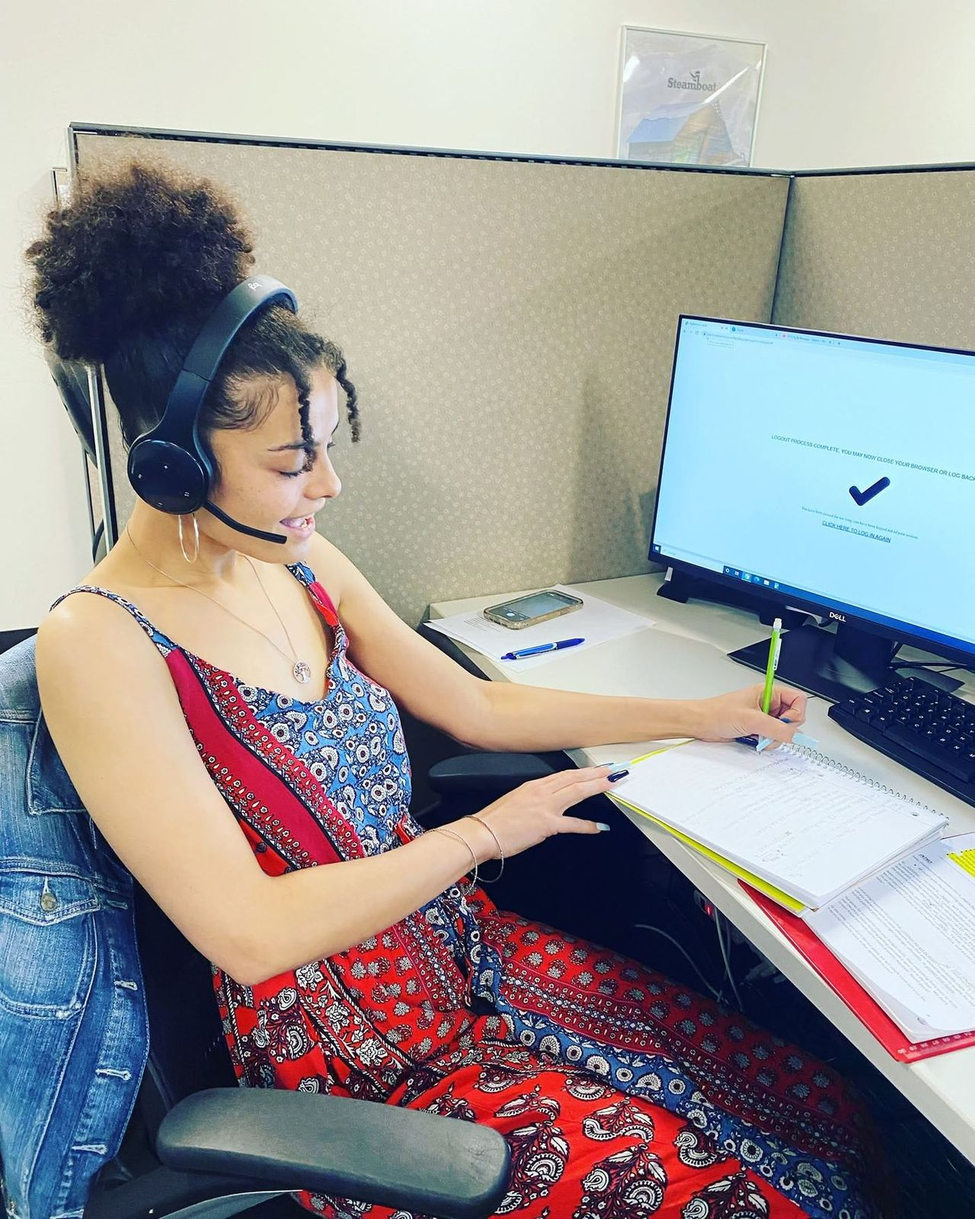
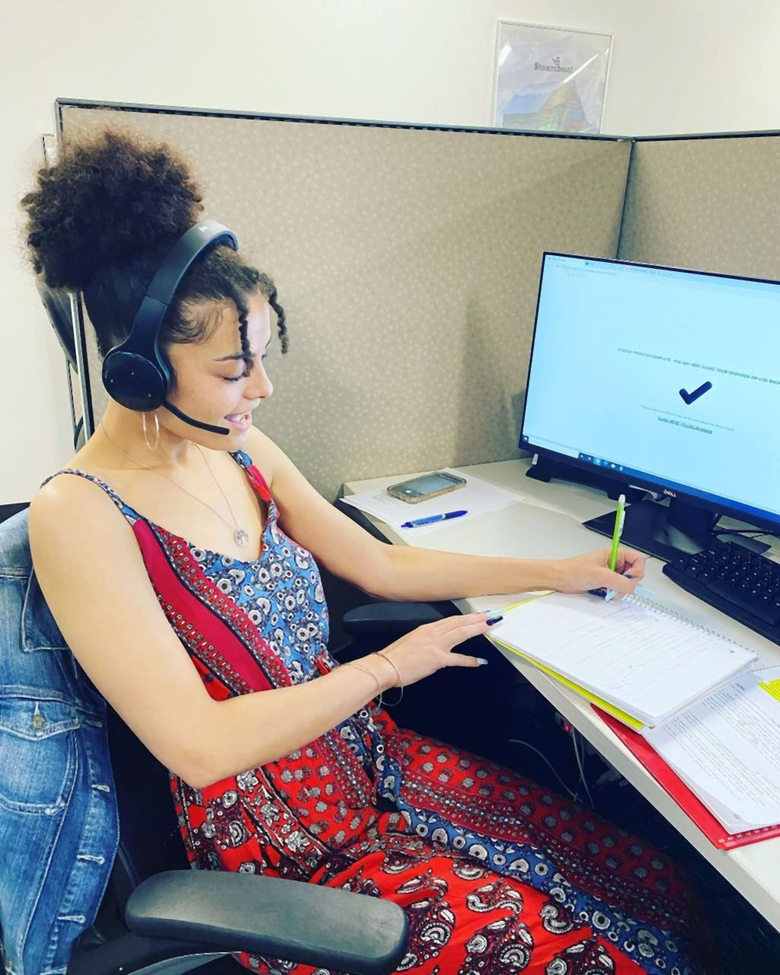
Medicare page: heading order and a lighter hero photo
Lighthouse on the newly released page: accessibility 98 from an h2 -> h4
skip in the "How It Works" steps (Step 1/2/3 are now h3 with the same
styling; no copy changes), and LCP 2.55 s with the H1 render-blocked
behind a 241 KB hero WebP fetched at high priority. agent-headset is
resized to 1024x1280 (the slot renders at most 720 px wide) and denoised
before encoding: 110 KB WebP, 192 KB JPEG fallback; width/height restamped
by the build.

diff --git a/burial-insurance-with-pre-existing-conditions/index.html b/burial-insurance-with-pre-existing-conditions/index.html
@@ -31,11 +31,11 @@
 <link rel="preload" as="font" type="font/woff2" href="/assets/fonts/poppins-latin-600.woff2" crossorigin>
 <link rel="preload" as="font" type="font/woff2" href="/assets/fonts/poppins-latin-700.woff2" crossorigin>
 
-<link rel="stylesheet" href="/assets/site.css?v=ab4abb86">
+<link rel="stylesheet" href="/assets/site.css?v=323cf22e">
 
 <script type="application/ld+json">{"@context":"https://schema.org","@type":"InsuranceAgency","@id":"https://ssifinalexpense.com/#agency","name":"Senior Solutions Insurance","legalName":"Christopher L Martin Insurance Group","url":"https://ssifinalexpense.com/","telephone":"+1-888-957-3337","image":"https://ssifinalexpense.com/assets/img/team-boardroom.jpg","logo":"https://ssifinalexpense.com/assets/ssi-logo.png","foundingDate":"2008","founder":{"@type":"Person","name":"Chris Martin","jobTitle":"Founder & CEO"},"description":"Licensed insurance agency in Greenwood Village, Colorado. Final expense and burial insurance, Medicare Advantage and ACA health plans, quoted by licensed agents.","hasMap":"https://www.google.com/maps/dir/?api=1&destination=5775+DTC+Blvd+Suite+250-S+Greenwood+Village+CO+80111","address":{"@type":"PostalAddress","streetAddress":"5775 DTC Blvd, Suite 250-S","addressLocality":"Greenwood Village","addressRegion":"CO","postalCode":"80111","addressCountry":"US"},"openingHoursSpecification":[{"@type":"OpeningHoursSpecification","dayOfWeek":["Monday","Tuesday","Wednesday","Thursday","Friday"],"opens":"09:00","closes":"19:00"},{"@type":"OpeningHoursSpecification","dayOfWeek":"Saturday","opens":"09:00","closes":"17:00"}],"sameAs":["https://www.facebook.com/SeniorSolutionsInsuranceMedicare","https://www.bbb.org/us/co/denver/profile/funeral-related-services/senior-solutions-insurance-1296-90265012"]}</script>
 <script type="application/ld+json">{"@context":"https://schema.org","@type":"FAQPage","mainEntity":[{"@type":"Question","name":"Can I be turned down for burial insurance?","acceptedAnswer":{"@type":"Answer","text":"For a level benefit plan, yes. For coverage of some kind, effectively no — guaranteed acceptance plans ask no health questions and cannot decline anyone within their age range."}},{"@type":"Question","name":"What conditions disqualify you from burial insurance?","acceptedAnswer":{"@type":"Answer","text":"No condition rules out coverage altogether. Conditions that commonly move an applicant to guaranteed acceptance include active cancer treatment, dialysis, dementia, continuous oxygen use, nursing home or hospice residence, and needing help with daily activities."}},{"@type":"Question","name":"Can I get burial insurance with no waiting period?","acceptedAnswer":{"@type":"Answer","text":"Yes, if you qualify for a level benefit plan. That is the plan most applicants get, including many with common chronic conditions. The waiting period applies to graded, modified and guaranteed acceptance plans."}},{"@type":"Question","name":"Can I get life insurance if I am on dialysis?","acceptedAnswer":{"@type":"Answer","text":"Through a guaranteed acceptance plan, yes. Dialysis is a knockout at nearly every carrier for level coverage."}},{"@type":"Question","name":"I have diabetes. Will I be approved?","acceptedAnswer":{"@type":"Answer","text":"Usually, and often at level. Type 2 managed with pills is routine. Insulin use is where carriers diverge, with many drawing the line at whether insulin started before or after age 40."}},{"@type":"Question","name":"I was declined last year. Is it worth applying again?","acceptedAnswer":{"@type":"Answer","text":"Often yes. Carriers differ on which conditions they accept, and underwriting rules change. A decline for a specific condition at one company says nothing about another company's rules."}},{"@type":"Question","name":"Do I need a medical exam?","acceptedAnswer":{"@type":"Answer","text":"No. Final expense underwriting uses a short list of health questions, a prescription history check and a database review. There is no exam, no blood work and no nurse visit."}},{"@type":"Question","name":"Does guaranteed acceptance pay nothing if I die in the first two years?","acceptedAnswer":{"@type":"Answer","text":"It pays something, just not the face amount. Most plans return the premiums paid, commonly with interest added. Accidental death is normally covered in full from day one."}}]}</script>
-<script type="application/ld+json">{"@context":"https://schema.org","@type":"Article","@id":"https://ssifinalexpense.com/burial-insurance-with-pre-existing-conditions/#article","mainEntityOfPage":"https://ssifinalexpense.com/burial-insurance-with-pre-existing-conditions/","headline":"Burial Insurance With Pre-Existing Conditions: What Actually Disqualifies You","description":"Which health conditions affect burial insurance approval, condition by condition, and what to do if you have been declined before.","image":"https://ssifinalexpense.com/assets/img/og-pre-existing-conditions.jpg","datePublished":"2026-09-12T03:56:06-04:00","dateModified":"2026-09-12T12:20:14.289Z","inLanguage":"en-US","author":{"@type":"Person","name":"Chris Martin","jobTitle":"Founder & CEO","url":"https://ssifinalexpense.com/about-us/","worksFor":{"@id":"https://ssifinalexpense.com/#agency"}},"publisher":{"@id":"https://ssifinalexpense.com/#agency"}}</script>
+<script type="application/ld+json">{"@context":"https://schema.org","@type":"Article","@id":"https://ssifinalexpense.com/burial-insurance-with-pre-existing-conditions/#article","mainEntityOfPage":"https://ssifinalexpense.com/burial-insurance-with-pre-existing-conditions/","headline":"Burial Insurance With Pre-Existing Conditions: What Actually Disqualifies You","description":"Which health conditions affect burial insurance approval, condition by condition, and what to do if you have been declined before.","image":"https://ssifinalexpense.com/assets/img/og-pre-existing-conditions.jpg","datePublished":"2026-09-12T03:56:06-04:00","dateModified":"2026-09-12T08:20:41-04:00","inLanguage":"en-US","author":{"@type":"Person","name":"Chris Martin","jobTitle":"Founder & CEO","url":"https://ssifinalexpense.com/about-us/","worksFor":{"@id":"https://ssifinalexpense.com/#agency"}},"publisher":{"@id":"https://ssifinalexpense.com/#agency"}}</script>
 <script type="application/ld+json">{"@context":"https://schema.org","@type":"BreadcrumbList","itemListElement":[{"@type":"ListItem","position":1,"name":"Home","item":"https://ssifinalexpense.com/"},{"@type":"ListItem","position":2,"name":"Burial Insurance With Pre-Existing Conditions","item":"https://ssifinalexpense.com/burial-insurance-with-pre-existing-conditions/"}]}</script>
 </head>
 <body class="page-guide" data-path="/burial-insurance-with-pre-existing-conditions/">

diff --git a/medicare/index.html b/medicare/index.html
@@ -31,7 +31,7 @@
 <link rel="preload" as="font" type="font/woff2" href="/assets/fonts/poppins-latin-600.woff2" crossorigin>
 <link rel="preload" as="font" type="font/woff2" href="/assets/fonts/poppins-latin-700.woff2" crossorigin>
 
-<link rel="stylesheet" href="/assets/site.css?v=ab4abb86">
+<link rel="stylesheet" href="/assets/site.css?v=323cf22e">
 
 <script type="application/ld+json">{"@context":"https://schema.org","@type":"InsuranceAgency","@id":"https://ssifinalexpense.com/#agency","name":"Senior Solutions Insurance","legalName":"Christopher L Martin Insurance Group","url":"https://ssifinalexpense.com/","telephone":"+1-888-957-3337","image":"https://ssifinalexpense.com/assets/img/team-boardroom.jpg","logo":"https://ssifinalexpense.com/assets/ssi-logo.png","foundingDate":"2008","founder":{"@type":"Person","name":"Chris Martin","jobTitle":"Founder & CEO"},"description":"Licensed insurance agency in Greenwood Village, Colorado. Final expense and burial insurance, Medicare Advantage and ACA health plans, quoted by licensed agents.","hasMap":"https://www.google.com/maps/dir/?api=1&destination=5775+DTC+Blvd+Suite+250-S+Greenwood+Village+CO+80111","address":{"@type":"PostalAddress","streetAddress":"5775 DTC Blvd, Suite 250-S","addressLocality":"Greenwood Village","addressRegion":"CO","postalCode":"80111","addressCountry":"US"},"openingHoursSpecification":[{"@type":"OpeningHoursSpecification","dayOfWeek":["Monday","Tuesday","Wednesday","Thursday","Friday"],"opens":"09:00","closes":"19:00"},{"@type":"OpeningHoursSpecification","dayOfWeek":"Saturday","opens":"09:00","closes":"17:00"}],"sameAs":["https://www.facebook.com/SeniorSolutionsInsuranceMedicare","https://www.bbb.org/us/co/denver/profile/funeral-related-services/senior-solutions-insurance-1296-90265012"]}</script>
 <script type="application/ld+json">{"@context":"https://schema.org","@type":"FAQPage","mainEntity":[{"@type":"Question","name":"Can I keep my doctor?","acceptedAnswer":{"@type":"Answer","text":"It depends on the plan you choose, but many Medicare Advantage plans have extensive networks of providers, giving you plenty of options to continue seeing your preferred doctors."}},{"@type":"Question","name":"How do I know if I am eligible for Medicare Advantage?","acceptedAnswer":{"@type":"Answer","text":"Eligibility typically requires enrollment in both Medicare Part A and Part B. Our agents can help you determine your eligibility during a consultation."}},{"@type":"Question","name":"What happens if I want to switch plans later?","acceptedAnswer":{"@type":"Answer","text":"You can usually switch Medicare Advantage plans during the Annual Enrollment Period (AEP) or other special enrollment periods, depending on your circumstances."}},{"@type":"Question","name":"What is Medicare Advantage?","acceptedAnswer":{"@type":"Answer","text":"Medicare Advantage, also called Medicare Part C, is a way to receive your Medicare Part A and Part B coverage through a private insurance company approved by Medicare, instead of directly through Original Medicare. Plans must cover everything Original Medicare covers, and each plan sets its own costs, provider network and rules."}}]}</script>
@@ -107,7 +107,7 @@
       </div>
     </div>
     <figure class="hero__photo">
-      <picture><source type="image/webp" srcset="/assets/img/agent-headset.webp"><img src="/assets/img/agent-headset.jpg" alt="A Senior Solutions agent on a headset taking notes for a client" width="1280" height="1600" loading="eager" fetchpriority="high" class="hero__img--focus-28"></picture>
+      <picture><source type="image/webp" srcset="/assets/img/agent-headset.webp"><img src="/assets/img/agent-headset.jpg" alt="A Senior Solutions agent on a headset taking notes for a client" width="1024" height="1280" loading="eager" fetchpriority="high" class="hero__img--focus-28"></picture>
       <figcaption>A licensed agent, Greenwood Village office</figcaption>
     </figure>
   </div>
@@ -146,9 +146,9 @@
     <div class="split">
       <div>
         <ol class="steps steps--dark">
-          <li><svg aria-hidden="true"><use href="#i-phone"/></svg><div><h4>Step 1</h4><p>Call us at 1-888-957-3337 or schedule a consultation online.</p></div></li>
-          <li><svg aria-hidden="true"><use href="#i-list"/></svg><div><h4>Step 2</h4><p>Review the available plans with the guidance of our licensed agents.</p></div></li>
-          <li><svg aria-hidden="true"><use href="#i-pen"/></svg><div><h4>Step 3</h4><p>Enroll in the plan that suits your needs.</p></div></li>
+          <li><svg aria-hidden="true"><use href="#i-phone"/></svg><div><h3 class="steps__step">Step 1</h3><p>Call us at 1-888-957-3337 or schedule a consultation online.</p></div></li>
+          <li><svg aria-hidden="true"><use href="#i-list"/></svg><div><h3 class="steps__step">Step 2</h3><p>Review the available plans with the guidance of our licensed agents.</p></div></li>
+          <li><svg aria-hidden="true"><use href="#i-pen"/></svg><div><h3 class="steps__step">Step 3</h3><p>Enroll in the plan that suits your needs.</p></div></li>
         </ol>
       </div>
       <picture><source type="image/webp" srcset="/assets/img/handshake-sign-2.webp"><img src="/assets/img/handshake-sign-2.jpg" alt="A handshake under the Senior Solutions Insurance sign at the office" width="1200" height="1600" loading="lazy" decoding="async" class="split__photo split__photo--focus-22"></picture>

diff --git a/how-much-does-a-funeral-cost/index.html b/how-much-does-a-funeral-cost/index.html
@@ -31,7 +31,7 @@
 <link rel="preload" as="font" type="font/woff2" href="/assets/fonts/poppins-latin-600.woff2" crossorigin>
 <link rel="preload" as="font" type="font/woff2" href="/assets/fonts/poppins-latin-700.woff2" crossorigin>
 
-<link rel="stylesheet" href="/assets/site.css?v=ab4abb86">
+<link rel="stylesheet" href="/assets/site.css?v=323cf22e">
 
 <script type="application/ld+json">{"@context":"https://schema.org","@type":"InsuranceAgency","@id":"https://ssifinalexpense.com/#agency","name":"Senior Solutions Insurance","legalName":"Christopher L Martin Insurance Group","url":"https://ssifinalexpense.com/","telephone":"+1-888-957-3337","image":"https://ssifinalexpense.com/assets/img/team-boardroom.jpg","logo":"https://ssifinalexpense.com/assets/ssi-logo.png","foundingDate":"2008","founder":{"@type":"Person","name":"Chris Martin","jobTitle":"Founder & CEO"},"description":"Licensed insurance agency in Greenwood Village, Colorado. Final expense and burial insurance, Medicare Advantage and ACA health plans, quoted by licensed agents.","hasMap":"https://www.google.com/maps/dir/?api=1&destination=5775+DTC+Blvd+Suite+250-S+Greenwood+Village+CO+80111","address":{"@type":"PostalAddress","streetAddress":"5775 DTC Blvd, Suite 250-S","addressLocality":"Greenwood Village","addressRegion":"CO","postalCode":"80111","addressCountry":"US"},"openingHoursSpecification":[{"@type":"OpeningHoursSpecification","dayOfWeek":["Monday","Tuesday","Wednesday","Thursday","Friday"],"opens":"09:00","closes":"19:00"},{"@type":"OpeningHoursSpecification","dayOfWeek":"Saturday","opens":"09:00","closes":"17:00"}],"sameAs":["https://www.facebook.com/SeniorSolutionsInsuranceMedicare","https://www.bbb.org/us/co/denver/profile/funeral-related-services/senior-solutions-insurance-1296-90265012"]}</script>
 <script type="application/ld+json">{"@context":"https://schema.org","@type":"FAQPage","mainEntity":[{"@type":"Question","name":"What is the average cost of a funeral in 2026?","acceptedAnswer":{"@type":"Answer","text":"About $9,200 for a funeral with viewing and burial, or roughly $11,000 with a burial vault, based on the NFDA's most recent median adjusted for funeral price inflation. Add cemetery costs and a typical all-in burial runs $12,000 to $18,000."}},{"@type":"Question","name":"Why do published funeral costs vary so much?","acceptedAnswer":{"@type":"Answer","text":"Different sources use different NFDA study years, include or exclude the burial vault, include or exclude cemetery costs, and some adjust for inflation while others quote the raw study figure. All four choices move the number by thousands."}},{"@type":"Question","name":"What is the cheapest funeral option?","acceptedAnswer":{"@type":"Answer","text":"Direct cremation, typically $700 to $3,500. No viewing, no embalming, no formal service, no casket or plot. Families often hold a memorial gathering separately at no funeral home cost."}},{"@type":"Question","name":"Does Social Security pay for a funeral?","acceptedAnswer":{"@type":"Answer","text":"Social Security pays a one-time lump-sum death payment of $255 to a surviving spouse or, in some cases, a dependent child. It has not been increased since 1954. It does not meaningfully offset a funeral."}},{"@type":"Question","name":"Is embalming required by law?","acceptedAnswer":{"@type":"Answer","text":"No state requires embalming in all circumstances. A funeral home may require it for a public open-casket viewing, but it cannot bill you for it without permission or claim the law requires it when it does not."}},{"@type":"Question","name":"Can I buy a casket somewhere other than the funeral home?","acceptedAnswer":{"@type":"Answer","text":"Yes. Federal law requires the funeral home to accept a casket you bought elsewhere, and it cannot charge a handling fee for it."}},{"@type":"Question","name":"How much final expense coverage should I buy?","acceptedAnswer":{"@type":"Answer","text":"Start with the funeral figure that matches your plans, add the cemetery costs if you are choosing burial, then add any outstanding medical bills or small debts. Most people land between $10,000 and $20,000."}}]}</script>

diff --git a/about-us/index.html b/about-us/index.html
@@ -31,7 +31,7 @@
 <link rel="preload" as="font" type="font/woff2" href="/assets/fonts/poppins-latin-600.woff2" crossorigin>
 <link rel="preload" as="font" type="font/woff2" href="/assets/fonts/poppins-latin-700.woff2" crossorigin>
 
-<link rel="stylesheet" href="/assets/site.css?v=ab4abb86">
+<link rel="stylesheet" href="/assets/site.css?v=323cf22e">
 
 <script type="application/ld+json">{"@context":"https://schema.org","@type":"InsuranceAgency","@id":"https://ssifinalexpense.com/#agency","name":"Senior Solutions Insurance","legalName":"Christopher L Martin Insurance Group","url":"https://ssifinalexpense.com/","telephone":"+1-888-957-3337","image":"https://ssifinalexpense.com/assets/img/team-boardroom.jpg","logo":"https://ssifinalexpense.com/assets/ssi-logo.png","foundingDate":"2008","founder":{"@type":"Person","name":"Chris Martin","jobTitle":"Founder & CEO"},"description":"Licensed insurance agency in Greenwood Village, Colorado. Final expense and burial insurance, Medicare Advantage and ACA health plans, quoted by licensed agents.","hasMap":"https://www.google.com/maps/dir/?api=1&destination=5775+DTC+Blvd+Suite+250-S+Greenwood+Village+CO+80111","address":{"@type":"PostalAddress","streetAddress":"5775 DTC Blvd, Suite 250-S","addressLocality":"Greenwood Village","addressRegion":"CO","postalCode":"80111","addressCountry":"US"},"openingHoursSpecification":[{"@type":"OpeningHoursSpecification","dayOfWeek":["Monday","Tuesday","Wednesday","Thursday","Friday"],"opens":"09:00","closes":"19:00"},{"@type":"OpeningHoursSpecification","dayOfWeek":"Saturday","opens":"09:00","closes":"17:00"}],"sameAs":["https://www.facebook.com/SeniorSolutionsInsuranceMedicare","https://www.bbb.org/us/co/denver/profile/funeral-related-services/senior-solutions-insurance-1296-90265012"]}</script>
 <script type="application/ld+json">{"@context":"https://schema.org","@type":"BreadcrumbList","itemListElement":[{"@type":"ListItem","position":1,"name":"Home","item":"https://ssifinalexpense.com/"},{"@type":"ListItem","position":2,"name":"About Us","item":"https://ssifinalexpense.com/about-us/"}]}</script>
@@ -160,7 +160,7 @@
     <p class="sec__sub">Every call to 1-888-957-3337 is answered by a licensed agent at our Greenwood Village, Colorado office. Here are a few of them at work.</p>
     <div class="gallery">
       <figure class="g-wide g-tall"><picture><source type="image/webp" srcset="/assets/img/team-office-2.webp"><img src="/assets/img/team-office-2.jpg" alt="The whole Senior Solutions team standing together in the office" width="1600" height="960" loading="lazy" decoding="async"></picture><figcaption>The Senior Solutions team</figcaption></figure>
-      <figure><picture><source type="image/webp" srcset="/assets/img/agent-headset.webp"><img src="/assets/img/agent-headset.jpg" alt="An agent on a headset taking notes for a client" width="1280" height="1600" loading="lazy" decoding="async" class="gallery__img--focus-25"></picture></figure>
+      <figure><picture><source type="image/webp" srcset="/assets/img/agent-headset.webp"><img src="/assets/img/agent-headset.jpg" alt="An agent on a headset taking notes for a client" width="1024" height="1280" loading="lazy" decoding="async" class="gallery__img--focus-25"></picture></figure>
       <figure><picture><source type="image/webp" srcset="/assets/img/agent-desk.webp"><img src="/assets/img/agent-desk.jpg" alt="An agent at his desk on a call" width="1600" height="1296" loading="lazy" decoding="async"></picture></figure>
       <figure><picture><source type="image/webp" srcset="/assets/img/agent-computer.webp"><img src="/assets/img/agent-computer.jpg" alt="An agent working a case at his computer" width="1200" height="1600" loading="lazy" decoding="async"></picture></figure>
       <figure><picture><source type="image/webp" srcset="/assets/img/handshake-sign.webp"><img src="/assets/img/handshake-sign.jpg" alt="A handshake under the Senior Solutions Insurance sign" width="720" height="960" loading="lazy" decoding="async" class="gallery__img--focus-15"></picture><figcaption>Under the sign at the front door</figcaption></figure>

diff --git a/health-insurance/index.html b/health-insurance/index.html
@@ -31,7 +31,7 @@
 <link rel="preload" as="font" type="font/woff2" href="/assets/fonts/poppins-latin-600.woff2" crossorigin>
 <link rel="preload" as="font" type="font/woff2" href="/assets/fonts/poppins-latin-700.woff2" crossorigin>
 
-<link rel="stylesheet" href="/assets/site.css?v=ab4abb86">
+<link rel="stylesheet" href="/assets/site.css?v=323cf22e">
 
 <script type="application/ld+json">{"@context":"https://schema.org","@type":"InsuranceAgency","@id":"https://ssifinalexpense.com/#agency","name":"Senior Solutions Insurance","legalName":"Christopher L Martin Insurance Group","url":"https://ssifinalexpense.com/","telephone":"+1-888-957-3337","image":"https://ssifinalexpense.com/assets/img/team-boardroom.jpg","logo":"https://ssifinalexpense.com/assets/ssi-logo.png","foundingDate":"2008","founder":{"@type":"Person","name":"Chris Martin","jobTitle":"Founder & CEO"},"description":"Licensed insurance agency in Greenwood Village, Colorado. Final expense and burial insurance, Medicare Advantage and ACA health plans, quoted by licensed agents.","hasMap":"https://www.google.com/maps/dir/?api=1&destination=5775+DTC+Blvd+Suite+250-S+Greenwood+Village+CO+80111","address":{"@type":"PostalAddress","streetAddress":"5775 DTC Blvd, Suite 250-S","addressLocality":"Greenwood Village","addressRegion":"CO","postalCode":"80111","addressCountry":"US"},"openingHoursSpecification":[{"@type":"OpeningHoursSpecification","dayOfWeek":["Monday","Tuesday","Wednesday","Thursday","Friday"],"opens":"09:00","closes":"19:00"},{"@type":"OpeningHoursSpecification","dayOfWeek":"Saturday","opens":"09:00","closes":"17:00"}],"sameAs":["https://www.facebook.com/SeniorSolutionsInsuranceMedicare","https://www.bbb.org/us/co/denver/profile/funeral-related-services/senior-solutions-insurance-1296-90265012"]}</script>
 <script type="application/ld+json">{"@context":"https://schema.org","@type":"FAQPage","mainEntity":[{"@type":"Question","name":"What is the ACA Open Enrollment period?","acceptedAnswer":{"@type":"Answer","text":"Open Enrollment is the annual window when anyone can sign up for a marketplace plan or change the one they have. It generally runs from November into January, and exact dates vary by state. Outside that window you need a qualifying life event — losing job coverage, moving, marriage, or a new child — to enroll."}},{"@type":"Question","name":"Are subsidies available to lower my premium?","acceptedAnswer":{"@type":"Answer","text":"Often, yes. Premium tax credits are based on your household income and household size, and they are applied directly to your monthly premium rather than paid back at tax time. We check what you qualify for before you pick a plan, so you are comparing what you would actually pay."}},{"@type":"Question","name":"What is ACA Health Insurance?","acceptedAnswer":{"@type":"Answer","text":"ACA plans are the individual and family health plans sold through the health insurance marketplace under the Affordable Care Act. Every plan covers the ten essential health benefits, none can decline you or charge you more for a pre-existing condition, and most buyers qualify for financial assistance toward the premium."}},{"@type":"Question","name":"Who is eligible for ACA coverage?","acceptedAnswer":{"@type":"Answer","text":"US citizens and lawfully present residents who do not have affordable coverage through an employer, Medicare or Medicaid. There is no age limit and no health screening. If you are turning 65 and going onto Medicare, a licensed agent can walk you through that transition instead."}}]}</script>

diff --git a/contact-us/index.html b/contact-us/index.html
@@ -31,7 +31,7 @@
 <link rel="preload" as="font" type="font/woff2" href="/assets/fonts/poppins-latin-600.woff2" crossorigin>
 <link rel="preload" as="font" type="font/woff2" href="/assets/fonts/poppins-latin-700.woff2" crossorigin>
 
-<link rel="stylesheet" href="/assets/site.css?v=ab4abb86">
+<link rel="stylesheet" href="/assets/site.css?v=323cf22e">
 
 <script type="application/ld+json">{"@context":"https://schema.org","@type":"InsuranceAgency","@id":"https://ssifinalexpense.com/#agency","name":"Senior Solutions Insurance","legalName":"Christopher L Martin Insurance Group","url":"https://ssifinalexpense.com/","telephone":"+1-888-957-3337","image":"https://ssifinalexpense.com/assets/img/team-boardroom.jpg","logo":"https://ssifinalexpense.com/assets/ssi-logo.png","foundingDate":"2008","founder":{"@type":"Person","name":"Chris Martin","jobTitle":"Founder & CEO"},"description":"Licensed insurance agency in Greenwood Village, Colorado. Final expense and burial insurance, Medicare Advantage and ACA health plans, quoted by licensed agents.","hasMap":"https://www.google.com/maps/dir/?api=1&destination=5775+DTC+Blvd+Suite+250-S+Greenwood+Village+CO+80111","address":{"@type":"PostalAddress","streetAddress":"5775 DTC Blvd, Suite 250-S","addressLocality":"Greenwood Village","addressRegion":"CO","postalCode":"80111","addressCountry":"US"},"openingHoursSpecification":[{"@type":"OpeningHoursSpecification","dayOfWeek":["Monday","Tuesday","Wednesday","Thursday","Friday"],"opens":"09:00","closes":"19:00"},{"@type":"OpeningHoursSpecification","dayOfWeek":"Saturday","opens":"09:00","closes":"17:00"}],"sameAs":["https://www.facebook.com/SeniorSolutionsInsuranceMedicare","https://www.bbb.org/us/co/denver/profile/funeral-related-services/senior-solutions-insurance-1296-90265012"]}</script>
 <script type="application/ld+json">{"@context":"https://schema.org","@type":"BreadcrumbList","itemListElement":[{"@type":"ListItem","position":1,"name":"Home","item":"https://ssifinalexpense.com/"},{"@type":"ListItem","position":2,"name":"Contact Us","item":"https://ssifinalexpense.com/contact-us/"}]}</script>
@@ -204,7 +204,7 @@
     <div class="office">
       <div class="map"><iframe title="Map to Senior Solutions Insurance, 5775 DTC Blvd Suite 250-S, Greenwood Village, CO" src="https://www.google.com/maps?q=5775+DTC+Blvd+Suite+250-S+Greenwood+Village+CO+80111&amp;output=embed" loading="lazy" referrerpolicy="no-referrer-when-downgrade" allowfullscreen></iframe></div>
       <div class="office__card">
-        <picture><source type="image/webp" srcset="/assets/img/agent-headset.webp"><img class="office__photo office__photo--focus-25" src="/assets/img/agent-headset.jpg" alt="A Senior Solutions agent on a headset taking notes for a client" width="1280" height="1600" loading="lazy" decoding="async"></picture>
+        <picture><source type="image/webp" srcset="/assets/img/agent-headset.webp"><img class="office__photo office__photo--focus-25" src="/assets/img/agent-headset.jpg" alt="A Senior Solutions agent on a headset taking notes for a client" width="1024" height="1280" loading="lazy" decoding="async"></picture>
         <h3>Senior Solutions Insurance</h3>
         <p>5775 DTC Blvd, Suite 250-S<br>Greenwood Village, CO 80111</p>
         <p class="muted">Visits by appointment. Most clients are helped entirely by phone.</p>

diff --git a/terms-and-conditions/index.html b/terms-and-conditions/index.html
@@ -31,7 +31,7 @@
 <link rel="preload" as="font" type="font/woff2" href="/assets/fonts/poppins-latin-600.woff2" crossorigin>
 <link rel="preload" as="font" type="font/woff2" href="/assets/fonts/poppins-latin-700.woff2" crossorigin>
 
-<link rel="stylesheet" href="/assets/site.css?v=ab4abb86">
+<link rel="stylesheet" href="/assets/site.css?v=323cf22e">
 
 <script type="application/ld+json">{"@context":"https://schema.org","@type":"InsuranceAgency","@id":"https://ssifinalexpense.com/#agency","name":"Senior Solutions Insurance","legalName":"Christopher L Martin Insurance Group","url":"https://ssifinalexpense.com/","telephone":"+1-888-957-3337","image":"https://ssifinalexpense.com/assets/img/team-boardroom.jpg","logo":"https://ssifinalexpense.com/assets/ssi-logo.png","foundingDate":"2008","founder":{"@type":"Person","name":"Chris Martin","jobTitle":"Founder & CEO"},"description":"Licensed insurance agency in Greenwood Village, Colorado. Final expense and burial insurance, Medicare Advantage and ACA health plans, quoted by licensed agents.","hasMap":"https://www.google.com/maps/dir/?api=1&destination=5775+DTC+Blvd+Suite+250-S+Greenwood+Village+CO+80111","address":{"@type":"PostalAddress","streetAddress":"5775 DTC Blvd, Suite 250-S","addressLocality":"Greenwood Village","addressRegion":"CO","postalCode":"80111","addressCountry":"US"},"openingHoursSpecification":[{"@type":"OpeningHoursSpecification","dayOfWeek":["Monday","Tuesday","Wednesday","Thursday","Friday"],"opens":"09:00","closes":"19:00"},{"@type":"OpeningHoursSpecification","dayOfWeek":"Saturday","opens":"09:00","closes":"17:00"}],"sameAs":["https://www.facebook.com/SeniorSolutionsInsuranceMedicare","https://www.bbb.org/us/co/denver/profile/funeral-related-services/senior-solutions-insurance-1296-90265012"]}</script>
 <script type="application/ld+json">{"@context":"https://schema.org","@type":"BreadcrumbList","itemListElement":[{"@type":"ListItem","position":1,"name":"Home","item":"https://ssifinalexpense.com/"},{"@type":"ListItem","position":2,"name":"Terms and Conditions","item":"https://ssifinalexpense.com/terms-and-conditions/"}]}</script>

diff --git a/privacy/index.html b/privacy/index.html
@@ -31,7 +31,7 @@
 <link rel="preload" as="font" type="font/woff2" href="/assets/fonts/poppins-latin-600.woff2" crossorigin>
 <link rel="preload" as="font" type="font/woff2" href="/assets/fonts/poppins-latin-700.woff2" crossorigin>
 
-<link rel="stylesheet" href="/assets/site.css?v=ab4abb86">
+<link rel="stylesheet" href="/assets/site.css?v=323cf22e">
 
 <script type="application/ld+json">{"@context":"https://schema.org","@type":"InsuranceAgency","@id":"https://ssifinalexpense.com/#agency","name":"Senior Solutions Insurance","legalName":"Christopher L Martin Insurance Group","url":"https://ssifinalexpense.com/","telephone":"+1-888-957-3337","image":"https://ssifinalexpense.com/assets/img/team-boardroom.jpg","logo":"https://ssifinalexpense.com/assets/ssi-logo.png","foundingDate":"2008","founder":{"@type":"Person","name":"Chris Martin","jobTitle":"Founder & CEO"},"description":"Licensed insurance agency in Greenwood Village, Colorado. Final expense and burial insurance, Medicare Advantage and ACA health plans, quoted by licensed agents.","hasMap":"https://www.google.com/maps/dir/?api=1&destination=5775+DTC+Blvd+Suite+250-S+Greenwood+Village+CO+80111","address":{"@type":"PostalAddress","streetAddress":"5775 DTC Blvd, Suite 250-S","addressLocality":"Greenwood Village","addressRegion":"CO","postalCode":"80111","addressCountry":"US"},"openingHoursSpecification":[{"@type":"OpeningHoursSpecification","dayOfWeek":["Monday","Tuesday","Wednesday","Thursday","Friday"],"opens":"09:00","closes":"19:00"},{"@type":"OpeningHoursSpecification","dayOfWeek":"Saturday","opens":"09:00","closes":"17:00"}],"sameAs":["https://www.facebook.com/SeniorSolutionsInsuranceMedicare","https://www.bbb.org/us/co/denver/profile/funeral-related-services/senior-solutions-insurance-1296-90265012"]}</script>
 <script type="application/ld+json">{"@context":"https://schema.org","@type":"BreadcrumbList","itemListElement":[{"@type":"ListItem","position":1,"name":"Home","item":"https://ssifinalexpense.com/"},{"@type":"ListItem","position":2,"name":"Privacy Policy","item":"https://ssifinalexpense.com/privacy/"}]}</script>

diff --git a/final-expense-insurance/index.html b/final-expense-insurance/index.html
@@ -31,7 +31,7 @@
 <link rel="preload" as="font" type="font/woff2" href="/assets/fonts/poppins-latin-600.woff2" crossorigin>
 <link rel="preload" as="font" type="font/woff2" href="/assets/fonts/poppins-latin-700.woff2" crossorigin>
 <link rel="preload" as="image" href="/assets/img/hero-home.webp" type="image/webp" fetchpriority="high">
-<link rel="stylesheet" href="/assets/site.css?v=ab4abb86">
+<link rel="stylesheet" href="/assets/site.css?v=323cf22e">
 <link rel="stylesheet" href="/assets/estimator.css?v=6118b5a6">
 <script src="/assets/estimator.js?v=02fb00f2" defer></script>
 <script type="application/ld+json">{"@context":"https://schema.org","@type":"InsuranceAgency","@id":"https://ssifinalexpense.com/#agency","name":"Senior Solutions Insurance","legalName":"Christopher L Martin Insurance Group","url":"https://ssifinalexpense.com/","telephone":"+1-888-957-3337","image":"https://ssifinalexpense.com/assets/img/team-boardroom.jpg","logo":"https://ssifinalexpense.com/assets/ssi-logo.png","foundingDate":"2008","founder":{"@type":"Person","name":"Chris Martin","jobTitle":"Founder & CEO"},"description":"Licensed insurance agency in Greenwood Village, Colorado. Final expense and burial insurance, Medicare Advantage and ACA health plans, quoted by licensed agents.","hasMap":"https://www.google.com/maps/dir/?api=1&destination=5775+DTC+Blvd+Suite+250-S+Greenwood+Village+CO+80111","address":{"@type":"PostalAddress","streetAddress":"5775 DTC Blvd, Suite 250-S","addressLocality":"Greenwood Village","addressRegion":"CO","postalCode":"80111","addressCountry":"US"},"openingHoursSpecification":[{"@type":"OpeningHoursSpecification","dayOfWeek":["Monday","Tuesday","Wednesday","Thursday","Friday"],"opens":"09:00","closes":"19:00"},{"@type":"OpeningHoursSpecification","dayOfWeek":"Saturday","opens":"09:00","closes":"17:00"}],"sameAs":["https://www.facebook.com/SeniorSolutionsInsuranceMedicare","https://www.bbb.org/us/co/denver/profile/funeral-related-services/senior-solutions-insurance-1296-90265012"]}</script>

diff --git a/index.html b/index.html
@@ -31,7 +31,7 @@
 <link rel="preload" as="font" type="font/woff2" href="/assets/fonts/poppins-latin-600.woff2" crossorigin>
 <link rel="preload" as="font" type="font/woff2" href="/assets/fonts/poppins-latin-700.woff2" crossorigin>
 <link rel="preload" as="image" href="/assets/img/hero-home.webp" type="image/webp" fetchpriority="high">
-<link rel="stylesheet" href="/assets/site.css?v=ab4abb86">
+<link rel="stylesheet" href="/assets/site.css?v=323cf22e">
 <link rel="stylesheet" href="/assets/estimator.css?v=6118b5a6">
 <script src="/assets/estimator.js?v=02fb00f2" defer></script>
 <script type="application/ld+json">{"@context":"https://schema.org","@type":"InsuranceAgency","@id":"https://ssifinalexpense.com/#agency","name":"Senior Solutions Insurance","legalName":"Christopher L Martin Insurance Group","url":"https://ssifinalexpense.com/","telephone":"+1-888-957-3337","image":"https://ssifinalexpense.com/assets/img/team-boardroom.jpg","logo":"https://ssifinalexpense.com/assets/ssi-logo.png","foundingDate":"2008","founder":{"@type":"Person","name":"Chris Martin","jobTitle":"Founder & CEO"},"description":"Licensed insurance agency in Greenwood Village, Colorado. Final expense and burial insurance, Medicare Advantage and ACA health plans, quoted by licensed agents.","hasMap":"https://www.google.com/maps/dir/?api=1&destination=5775+DTC+Blvd+Suite+250-S+Greenwood+Village+CO+80111","address":{"@type":"PostalAddress","streetAddress":"5775 DTC Blvd, Suite 250-S","addressLocality":"Greenwood Village","addressRegion":"CO","postalCode":"80111","addressCountry":"US"},"openingHoursSpecification":[{"@type":"OpeningHoursSpecification","dayOfWeek":["Monday","Tuesday","Wednesday","Thursday","Friday"],"opens":"09:00","closes":"19:00"},{"@type":"OpeningHoursSpecification","dayOfWeek":"Saturday","opens":"09:00","closes":"17:00"}],"sameAs":["https://www.facebook.com/SeniorSolutionsInsuranceMedicare","https://www.bbb.org/us/co/denver/profile/funeral-related-services/senior-solutions-insurance-1296-90265012"]}</script>

diff --git a/404.html b/404.html
@@ -31,7 +31,7 @@
 <link rel="preload" as="font" type="font/woff2" href="/assets/fonts/poppins-latin-600.woff2" crossorigin>
 <link rel="preload" as="font" type="font/woff2" href="/assets/fonts/poppins-latin-700.woff2" crossorigin>
 
-<link rel="stylesheet" href="/assets/site.css?v=ab4abb86">
+<link rel="stylesheet" href="/assets/site.css?v=323cf22e">
 
 <script type="application/ld+json">{"@context":"https://schema.org","@type":"InsuranceAgency","@id":"https://ssifinalexpense.com/#agency","name":"Senior Solutions Insurance","legalName":"Christopher L Martin Insurance Group","url":"https://ssifinalexpense.com/","telephone":"+1-888-957-3337","image":"https://ssifinalexpense.com/assets/img/team-boardroom.jpg","logo":"https://ssifinalexpense.com/assets/ssi-logo.png","foundingDate":"2008","founder":{"@type":"Person","name":"Chris Martin","jobTitle":"Founder & CEO"},"description":"Licensed insurance agency in Greenwood Village, Colorado. Final expense and burial insurance, Medicare Advantage and ACA health plans, quoted by licensed agents.","hasMap":"https://www.google.com/maps/dir/?api=1&destination=5775+DTC+Blvd+Suite+250-S+Greenwood+Village+CO+80111","address":{"@type":"PostalAddress","streetAddress":"5775 DTC Blvd, Suite 250-S","addressLocality":"Greenwood Village","addressRegion":"CO","postalCode":"80111","addressCountry":"US"},"openingHoursSpecification":[{"@type":"OpeningHoursSpecification","dayOfWeek":["Monday","Tuesday","Wednesday","Thursday","Friday"],"opens":"09:00","closes":"19:00"},{"@type":"OpeningHoursSpecification","dayOfWeek":"Saturday","opens":"09:00","closes":"17:00"}],"sameAs":["https://www.facebook.com/SeniorSolutionsInsuranceMedicare","https://www.bbb.org/us/co/denver/profile/funeral-related-services/senior-solutions-insurance-1296-90265012"]}</script>
 </head>

diff --git a/src/pages/medicare.html b/src/pages/medicare.html
@@ -70,9 +70,9 @@
     <div class="split">
       <div>
         <ol class="steps steps--dark">
-          <li><svg aria-hidden="true"><use href="#i-phone"/></svg><div><h4>Step 1</h4><p>Call us at 1-888-957-3337 or schedule a consultation online.</p></div></li>
-          <li><svg aria-hidden="true"><use href="#i-list"/></svg><div><h4>Step 2</h4><p>Review the available plans with the guidance of our licensed agents.</p></div></li>
-          <li><svg aria-hidden="true"><use href="#i-pen"/></svg><div><h4>Step 3</h4><p>Enroll in the plan that suits your needs.</p></div></li>
+          <li><svg aria-hidden="true"><use href="#i-phone"/></svg><div><h3 class="steps__step">Step 1</h3><p>Call us at 1-888-957-3337 or schedule a consultation online.</p></div></li>
+          <li><svg aria-hidden="true"><use href="#i-list"/></svg><div><h3 class="steps__step">Step 2</h3><p>Review the available plans with the guidance of our licensed agents.</p></div></li>
+          <li><svg aria-hidden="true"><use href="#i-pen"/></svg><div><h3 class="steps__step">Step 3</h3><p>Enroll in the plan that suits your needs.</p></div></li>
         </ol>
       </div>
       <img src="/assets/img/handshake-sign-2.jpg" alt="A handshake under the Senior Solutions Insurance sign at the office" width="1440" height="1920" loading="lazy" decoding="async" class="split__photo split__photo--focus-22">
